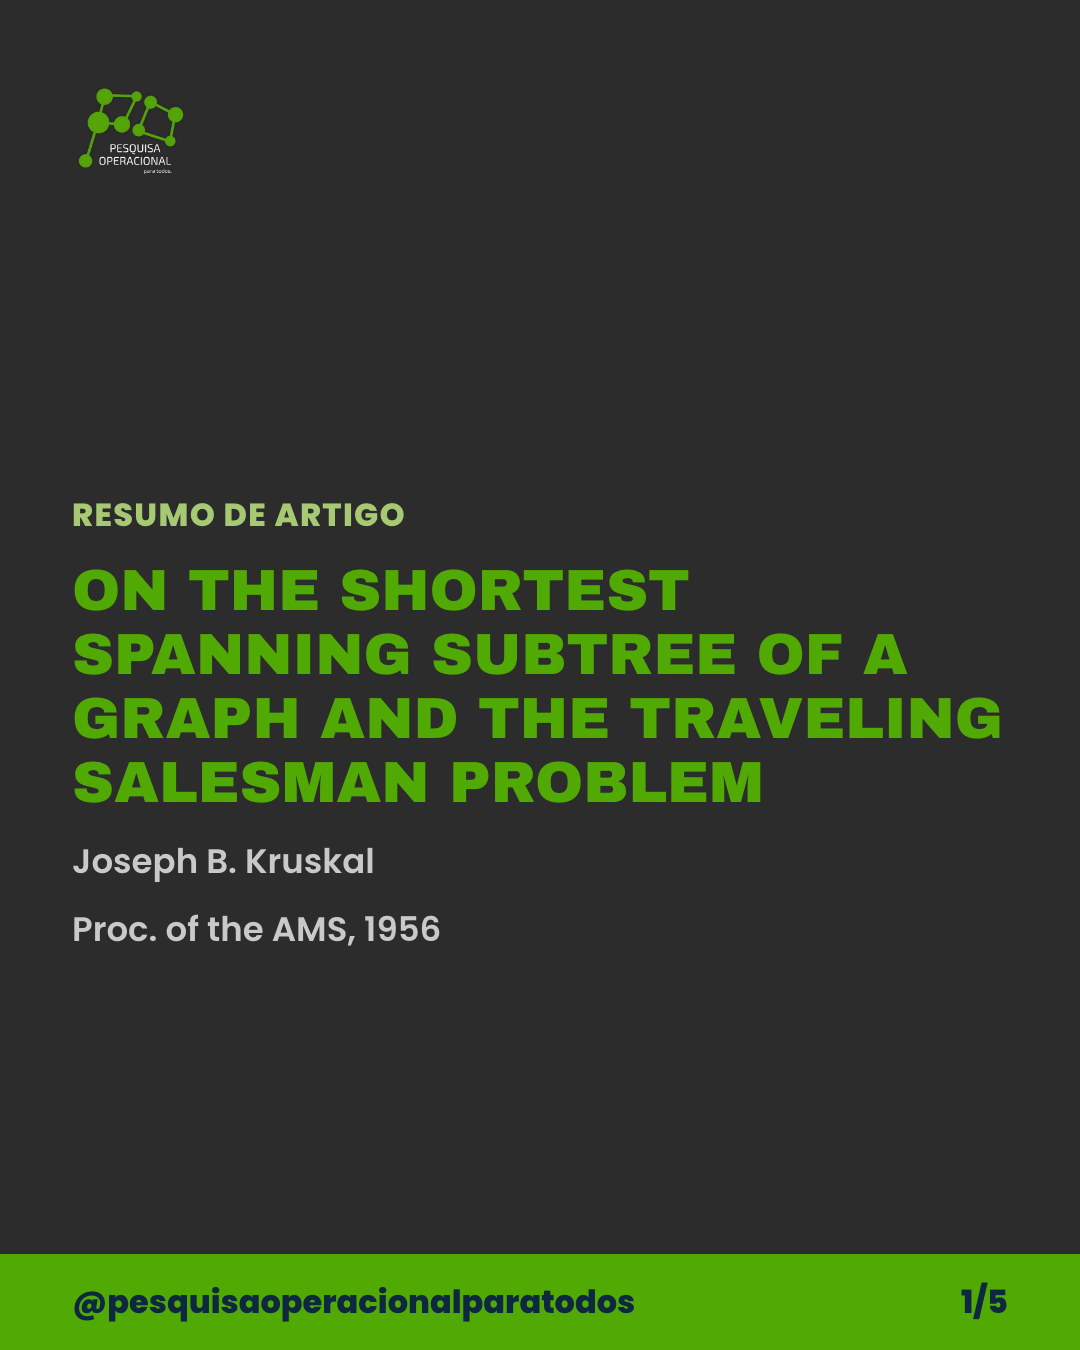
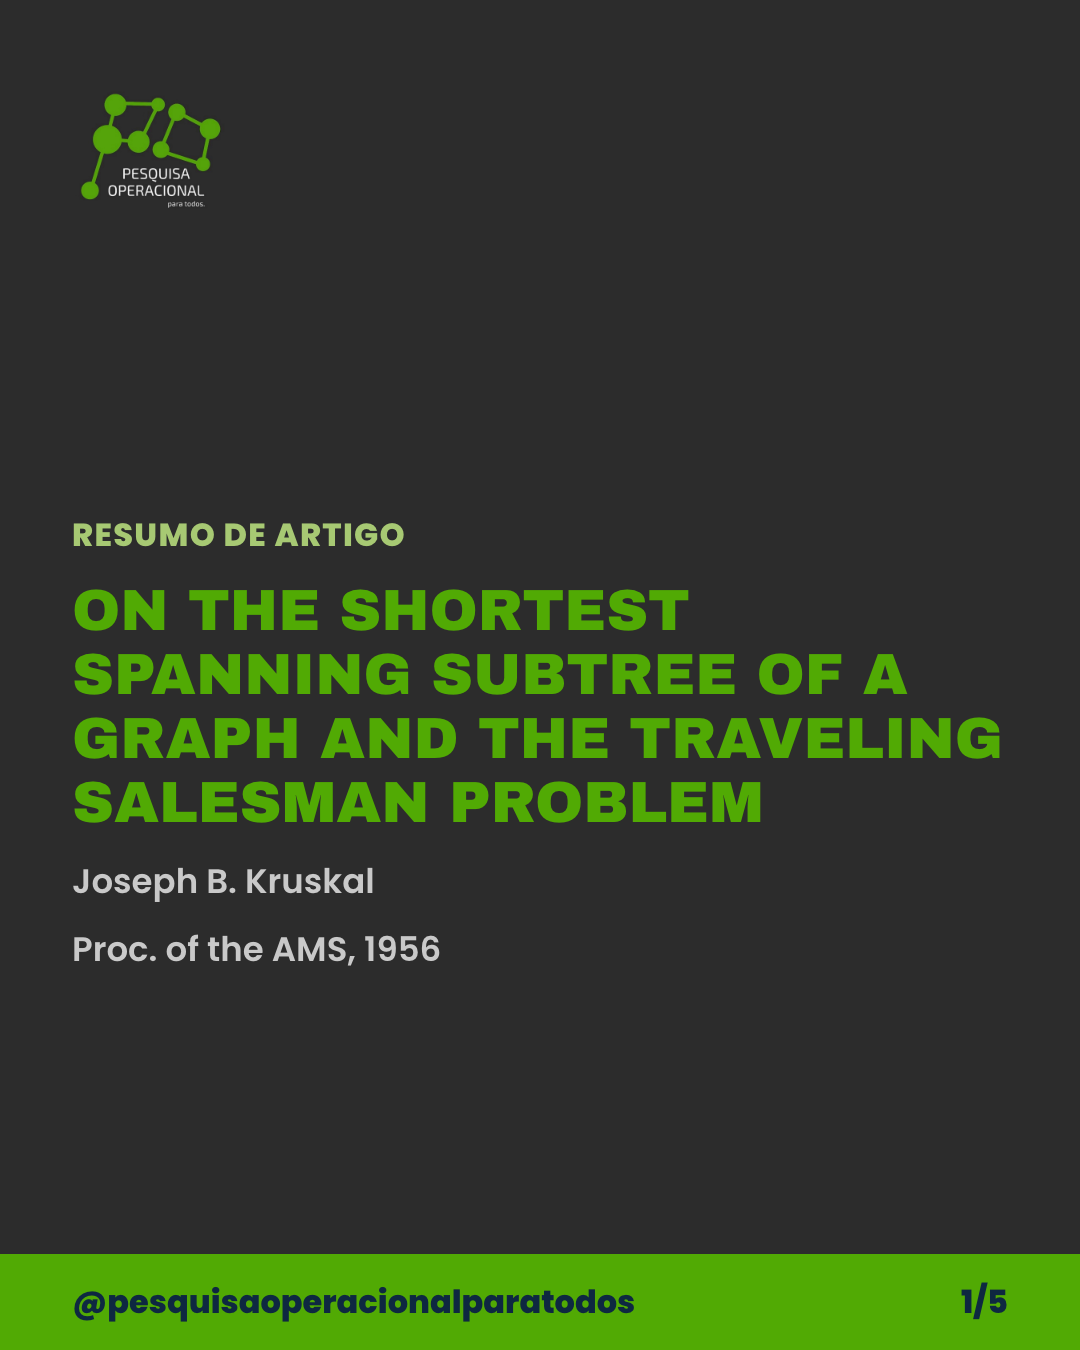
README e skills: quem gera o token do GitHub, tokens fora do chat, convite de testador, Ctrl+C; cards do exemplo com lockup maior

Changed region(s): [[0.0611, 0.3733, 0.9472, 0.7156], [0.0611, 0.0622, 0.2139, 0.1556]]

diff --git a/README.md b/README.md
@@ -116,9 +116,9 @@ A Meta dá um "token" (uma senha longa e temporária) que permite ao script publ
 
 1. Entre em https://developers.facebook.com com a conta de quem coordena o projeto (o mesmo login do Facebook/Instagram). Se aparecer um pedido para "se registrar como desenvolvedor", aceite — é só confirmar o e-mail.
 2. Clique em **Meus apps → Criar app**. Escolha o caso de uso **"Outro"**, depois o tipo **"Empresa"** (Business); nome do app: `PO para Todos`. Não precisa de Página do Facebook nem de portfólio comercial.
-3. No painel do app, no menu da esquerda, procure **Instagram** (ou "Adicionar produto → Instagram") e escolha **"API do Instagram com login do Instagram"** (API setup with Instagram login). Em **"Gerar tokens de acesso"**, clique em **Adicionar conta** e faça login na conta `@pesquisaoperacionalparatodos`. A conta já é profissional (categoria Educação) — se a tela pedir para converter, é porque você entrou com outra conta.
+3. No painel do app, no menu da esquerda, procure **Instagram** (ou "Adicionar produto → Instagram") e escolha **"API do Instagram com login do Instagram"** (API setup with Instagram login). Em **"Gerar tokens de acesso"**, clique em **Adicionar conta** e faça login na conta `@pesquisaoperacionalparatodos`. A conta já é profissional (categoria Educação) — se a tela pedir para converter, é porque você entrou com outra conta. Se o aplicativo do Instagram no celular mostrar um convite de testador (**Configurações → Site permissions → Apps e sites → Convites de testador**), aceite antes de gerar o token.
 4. Na mesma tela, ao lado da conta adicionada, clique em **Gerar token**. Marque as permissões `instagram_business_basic` e `instagram_business_content_publish`, confirme, e copie o token (um texto longo começando com `IG`). Guarde-o como uma senha — não cole em conversas nem em arquivos do projeto.
-5. No Terminal, na pasta do projeto, cole (com o token entre as aspas):
+5. Rode o comando logo depois de gerar o token: o script conta os 60 dias de validade a partir desse momento. Abra uma janela do Terminal separada da conversa com o Claude — **nunca cole o token na conversa**, porque ele fica salvo na transcrição — e, na pasta do projeto, cole (com o token entre as aspas):
    ```bash
    node scripts/instagram.mjs --token "COLE-O-TOKEN-AQUI"
    ```
@@ -128,15 +128,19 @@ O passo a passo oficial, com telas, está em https://developers.facebook.com/doc
 
 ### Conectar ao GitHub (uma vez)
 
-A Meta só consegue baixar as imagens de um endereço público na internet. O script usa o próprio repositório para isso (um "branch" separado chamado `midia`, que fica vazio entre um post e outro), e para escrever nele precisa de um token seu do GitHub.
+A Meta só consegue baixar as imagens de um endereço público na internet. O script usa o próprio repositório para isso (um "branch" separado chamado `midia`, que fica vazio entre um post e outro), e para escrever nele precisa de um token do GitHub.
+
+Esse token é gerado **pela conta dona do repositório** (`jotape-prog22`), uma vez por projeto — como o app da Meta. Um token *fine-grained* só pode escolher repositórios da própria conta (ou de uma organização à qual ela pertença): quem apenas colabora no projeto não vê `po-para-todos-publisher` em "Only select repositories". Quem for publicar recebe esse token de quem coordena o projeto.
 
 1. Entre em https://github.com/settings/personal-access-tokens e clique em **Generate new token** (tipo *fine-grained*).
 2. Nome: `PO para Todos - Instagram`; validade: 1 ano; em **Repository access** escolha **Only select repositories** e marque `po-para-todos-publisher`; em **Permissions → Repository permissions** dê **Contents: Read and write**. Nada mais. Gere e copie o token (começa com `github_pat_`).
-3. No Terminal, na pasta do projeto:
+3. Abra uma janela do Terminal separada da conversa com o Claude — **nunca cole o token na conversa**, porque ele fica salvo na transcrição — e, na pasta do projeto:
    ```bash
    node scripts/instagram.mjs --token-github "COLE-O-TOKEN-AQUI"
    ```
    O que esperar: `token do GitHub guardado em …/instagram.json`.
+
+Se outra pessoa precisar publicar com a própria conta do GitHub: quem é dono do repositório a adiciona como colaboradora com permissão de escrita (**Settings → Collaborators**), e ela cria um token **clássico** em https://github.com/settings/tokens → **Generate new token (classic)**, só com o escopo `public_repo`, e roda o mesmo comando `--token-github`. Quem guarda esse token consegue escrever no repositório público — mantenha-o tão privado quanto o token do Instagram.
 
 Confira tudo com `node scripts/instagram.mjs --status` — mostra a conta, quantos dias o token ainda vale e quantos posts já foram feitos nas últimas 24 h (o limite da Meta é 100).
 
@@ -164,7 +168,7 @@ Um exemplo completo está em `instagram/2026-09-20-kruskal-1956/`.
 ## Quando algo dá errado
 
 - **"erro: roteiro inválido"** — normalmente o próprio Claude corrige sozinho e tenta de novo. Se ele insistir no erro, peça: "valide o roteiro e me mostre os erros".
-- **"nenhum Chrome/Chromium/Edge encontrado"** — falta instalar o Google Chrome ou o Microsoft Edge (item 5 da lista de instalação); instale um dos dois e tente de novo. Se você já tem um dos dois instalado mas em um local não padrão, defina a variável `CHROME` com o caminho do executável antes de rodar o comando — no Mac: `CHROME="/caminho/para/Google Chrome" node design-system/scripts/gerar-miniatura.mjs …`; no Windows (PowerShell): `$env:CHROME="C:\caminho\para\chrome.exe"`.
+- **"nenhum Chrome/Chromium/Edge encontrado"** — falta instalar o Google Chrome ou o Microsoft Edge (item 5 da lista de instalação); instale um dos dois e tente de novo. Se você já tem um dos dois instalado mas em um local não padrão, defina a variável `CHROME` com o caminho do executável antes de rodar o comando — no Mac: `CHROME="/caminho/para/Google Chrome" node design-system/scripts/gerar-miniatura.mjs …`; no Windows (PowerShell): `$env:CHROME="C:\caminho\para\chrome.exe"`. Para os cards do Instagram, o mesmo vale para `node design-system/scripts/gerar-cards.mjs …`.
 - **"não autenticado" no YouTube** — o login salvo expirou ou nunca foi feito; peça ao Claude: "faça login no YouTube".
 - **Cota do YouTube esgotada** — a conta atingiu o limite diário de uso da API; espere até o dia seguinte, a cota é renovada à meia-noite no horário do Pacífico (EUA), o que costuma cair de madrugada no horário de Brasília.
 - **Slides com uma fonte diferente da esperada** — é normal: o PowerPoint, ao abrir o arquivo, substitui as fontes da marca (Aharoni, Hagrid) por uma fonte parecida disponível no seu computador; isso não afeta o conteúdo.
@@ -173,6 +177,7 @@ Um exemplo completo está em `instagram/2026-09-20-kruskal-1956/`.
 - **"GitHub: Bad credentials"** — o token do GitHub venceu ou foi colado errado; gere outro em "Conectar ao GitHub".
 - **"a Meta rejeitou a mídia"** — em geral é a imagem grande demais ou a URL inacessível; rode `node design-system/scripts/gerar-cards.mjs instagram/<pasta>` de novo e tente outra vez. Se persistir, publique à mão (acima).
 - **"a conta já fez 100 publicações"** — limite diário da API; espere 24 h ou publique à mão.
+- **Interrompi o `--publicar` no meio (Ctrl+C)** — as imagens podem ficar no branch `midia` do GitHub até o próximo post, que substitui tudo. Não faz mal: são os mesmos cards que iriam para o Instagram.
 
 ## Quero mudar a pipeline
 

diff --git a/.claude/skills/post/SKILL.md b/.claude/skills/post/SKILL.md
@@ -9,7 +9,7 @@ Diga antes: "Vou montar os cards e a legenda para você olhar; só publico depoi
 
 ## 1. Pasta
 
-- Defina a pasta `instagram/<AAAA-MM-DD>-<slug>/` (data prevista do post; slug do tema em minúsculas com hífens). Se já existir, veja o que tem: `publicacao.json` → já publicado, pare e diga o link; `cards.json` e `legenda.json` → pule para o passo 3.
+- Defina a pasta `instagram/<AAAA-MM-DD>-<slug>/` (data prevista do post; slug do tema em minúsculas com hífens). Se já existir, veja o que tem: `publicacao.json` → já publicado, pare e diga o link; `cards.json` e `legenda.json` → gere os PNGs e a legenda (comandos do passo 2) e siga para o passo 3.
 - Se não há `post.md`, crie a partir de `instagram/_modelo/post.md` com o que a pessoa disse e pergunte, em uma rodada só, o que faltar (artigo: título, autores, onde, link, resumo; aviso: nome, data-limite, link).
 
 ## 2. Cards e legenda
@@ -18,11 +18,11 @@ Siga `design-system/instagram/GUIA-AGENTE.md` do início ao fim: escreva `cards.
 
 ## 3. **PARADA**: aprovação
 
-Abra os PNGs (`open instagram/<pasta>/card-0*.png` no Mac, `start …` no Windows) e mostre a legenda inteira. Pergunte: "Aprova os cards e a legenda? Quer trocar alguma palavra?" **Não avance sem um sim explícito.** Ajustes: edite os JSON, gere de novo, mostre de novo.
+Abra os PNGs (`open instagram/<pasta>/card-*.png` no Mac, `start …` no Windows) e mostre a legenda inteira. Pergunte: "Aprova os cards e a legenda? Quer trocar alguma palavra?" **Não avance sem um sim explícito.** Ajustes: edite os JSON, gere de novo, mostre de novo.
 
 ## 4. Publicar
 
-1. `node scripts/instagram.mjs --status`. Se sair `erro: sem token…`, siga o README (seção "Publicar no Instagram") com a pessoa e pare até ela colar o token. Se a cota estiver em 100, pare e diga quando libera.
+1. `node scripts/instagram.mjs --status`. Se sair `erro: sem token…`, diga à pessoa para rodar os comandos `--token`/`--token-github` (README, seção "Publicar no Instagram") numa outra janela do Terminal, fora desta conversa, e **nunca** colar o token aqui no chat. Espere ela dizer "pronto" e rode `--status` de novo. Se a cota estiver em 100, pare e diga quando libera.
 2. `node scripts/instagram.mjs --publicar instagram/<pasta>`. Reporte cada linha que o script imprime. Se sair `erro: …`, mostre exatamente e não tente de novo por conta própria — o script já esvaziou o branch `midia`.
 3. Entregue: "Post no ar: <url de publicacao.json>. Confira no app se o carrossel abriu na ordem certa."
 

diff --git a/design-system/instagram/GUIA-AGENTE.md b/design-system/instagram/GUIA-AGENTE.md
@@ -8,7 +8,7 @@ Para quem recebe um `instagram/<data>-<slug>/post.md` e precisa entregar `cards.
 2. **Escreva `cards.json`** (formato abaixo). `artigo`: `capa` + 1 a 8 `ideia` + `fim`, no máximo 10 cards; uma ideia por card, tirada do resumo, na ordem em que o artigo apresenta. `aviso`: um card `aviso`.
 3. **Escreva `legenda.json`**: `gancho` (uma frase, ≤ 125 caracteres, o que aparece antes do "mais" — pergunta ou fato surpreendente), `corpo` (2 a 4 parágrafos curtos, sem repetir os cards palavra por palavra), `autores` (artigo: por extenso, `@` de quem tiver — ex.: `"Maria Silva (@mariasilva), João Souza"`; aviso: `null`), `hashtags_tema` (3 a 4, `#CamelCase` sem acento, pelo mesmo critério das tags do YouTube: nome do tema, área, apelidos de `../miniaturas/catalogo.json`).
 4. **Gere e valide**: `node design-system/scripts/gerar-cards.mjs instagram/<pasta>` e `node scripts/legenda.mjs instagram/<pasta>`. Os dois recusam o que não cabe (`erro: …`); corrija o JSON, nunca o CSS.
-5. **Olhe cada PNG** (`open instagram/<pasta>/card-0*.png`): texto inteiro, nada encostando no rodapé, contador certo. Reduza mentalmente a 400 px: o título lê? Só então mostre à pessoa.
+5. **Olhe cada PNG** (`open instagram/<pasta>/card-*.png`): texto inteiro, nada encostando no rodapé, contador certo. Reduza mentalmente a 400 px: o título lê? Só então mostre à pessoa.
 
 ## `cards.json`
 

diff --git a/design-system/fundamentos-instagram.md b/design-system/fundamentos-instagram.md
@@ -10,7 +10,7 @@ Padrão dos cards de feed e dos stories do perfil `@pesquisaoperacionalparatodos
 
 ## Grade (1080 de largura)
 
-- Margem lateral 72 px (área útil 936 px). Lockup do canal (logo quadrado, 120 px) no canto superior esquerdo — assina, não compete.
+- Margem lateral 72 px (área útil 936 px). Lockup do canal (logo quadrado, 160 px) no canto superior esquerdo — assina, não compete.
 - Rodapé de largura total em `brand-green`, 96 px, com `@pesquisaoperacionalparatodos` à esquerda e o contador do carrossel (`2/5`) à direita, em `brand-navy` sobre o verde (5,08:1).
 - Conteúdo centrado na vertical entre lockup e rodapé. Um só bloco de leitura por card; nunca dois assuntos.
 - Story: conteúdo na metade superior, faixa "ASSISTA NO YOUTUBE" e rodapé logo acima da zona segura de baixo; entre eles, espaço para o sticker de link, que a pessoa adiciona no app.

diff --git a/.claude/skills/video/SKILL.md b/.claude/skills/video/SKILL.md
@@ -35,7 +35,7 @@ Espere a pessoa informar o arquivo gravado. Não invente caminho. **Não avance 
 
 ## Etapa 4 — Publicar
 
-Invoque a skill `publicar`. Ela confirma os capítulos reais, sobe como privado e devolve o link e gera o `story.png` para o Instagram.
+Invoque a skill `publicar`. Ela confirma os capítulos reais, sobe como privado, devolve o link e, por fim, gera o `story.png` para o Instagram.
 
 ## Se algo der errado
 
